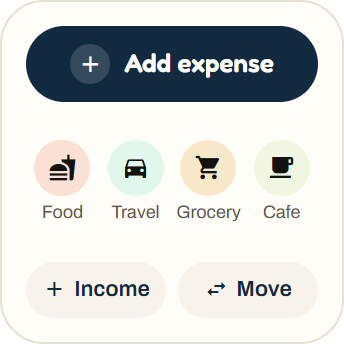
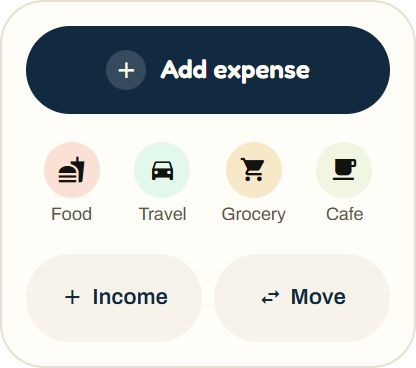
fix(widgets): give every Quick Add action a full touch target

diff --git a/src/widgets/QuickAddWidget.tsx b/src/widgets/QuickAddWidget.tsx
@@ -1,16 +1,16 @@
 import { FlexWidget, TextWidget, IconWidget, type ColorProp } from 'react-native-android-widget';
 import { WidgetShell, WidgetIcon, iconGlyph } from './WidgetShell';
-import { widgetColor, widgetAlpha, widgetInk, WIDGET_FONT } from './widgetTheme';
+import { widgetColor, widgetAlpha, widgetInk, WIDGET_FONT, QUICK_ADD_LAYOUT } from './widgetTheme';
 import type { QuickAddWidgetData } from './data';
 
 /**
- * "Quick Add" 2×2 widget: a dark theme-ink "Add expense" action, your four most-used expense categories
+ * "Quick Add" widget: a dark theme-ink "Add expense" action, your four most-used expense categories
  * (each opens Add with it picked), then Income and Move. All are deep links into `add-transaction`.
  */
 export function QuickAddWidget({ primary, categories }: QuickAddWidgetData) {
   const ink = widgetInk(primary);
   return (
-    <WidgetShell padding={12}>
+    <WidgetShell padding={QUICK_ADD_LAYOUT.padding}>
       <FlexWidget
         clickAction="OPEN_URI"
         clickActionData={{ uri: 'yume://add-transaction?type=expense' }}
@@ -19,8 +19,8 @@ export function QuickAddWidget({ primary, categories }: QuickAddWidgetData) {
           alignItems: 'center',
           justifyContent: 'center',
           width: 'match_parent',
-          height: 38,
-          borderRadius: 19,
+          height: QUICK_ADD_LAYOUT.actionHeight,
+          borderRadius: QUICK_ADD_LAYOUT.actionHeight / 2,
           backgroundColor: ink,
         }}
       >
@@ -57,7 +57,14 @@ export function QuickAddWidget({ primary, categories }: QuickAddWidgetData) {
               clickActionData={{
                 uri: `yume://add-transaction?type=expense&categoryId=${encodeURIComponent(c.id)}`,
               }}
-              style={{ flex: 1, width: 0, flexDirection: 'column', alignItems: 'center' }}
+              style={{
+                flex: 1,
+                width: 0,
+                height: QUICK_ADD_LAYOUT.categoryHeight,
+                flexDirection: 'column',
+                alignItems: 'center',
+                justifyContent: 'center',
+              }}
             >
               <WidgetIcon name={c.icon} background={widgetAlpha(c.color, 0.25)} size={28} />
               <TextWidget
@@ -120,11 +127,11 @@ function SmallAction({
       style={{
         flex: 1,
         width: 0,
-        height: 28,
+        height: QUICK_ADD_LAYOUT.actionHeight,
         flexDirection: 'row',
         alignItems: 'center',
         justifyContent: 'center',
-        borderRadius: 14,
+        borderRadius: QUICK_ADD_LAYOUT.actionHeight / 2,
         backgroundColor: background,
       }}
     >

diff --git a/src/widgets/quickAddTargets.test.tsx b/src/widgets/quickAddTargets.test.tsx
@@ -1,0 +1,50 @@
+import { act, create, type ReactTestRenderer } from 'react-test-renderer';
+import { FlexWidget } from 'react-native-android-widget';
+import app from '../../app.json';
+import { QuickAddWidget } from './QuickAddWidget';
+
+const categories = ['Food', 'Travel', 'Grocery', 'Cafe'].map((name) => ({
+  id: name === 'Cafe' ? 'cafe & tea' : name.toLowerCase(),
+  name,
+  icon: 'coffee',
+  color: '#F0876A',
+}));
+
+it('keeps all seven Quick Add links with at least 44dp bounds at its native minimum', () => {
+  let tree: ReactTestRenderer | undefined;
+  act(() => {
+    tree = create(<QuickAddWidget primary="#8FCBFF" categories={categories} />);
+  });
+  if (!tree) throw new Error('Widget did not render');
+  const containers = tree.root.findAllByType(FlexWidget);
+  const actions = containers.filter((node) => node.props.clickAction === 'OPEN_URI');
+  expect(actions.map((node) => node.props.clickActionData.uri)).toEqual([
+    'yume://add-transaction?type=expense',
+    ...categories.map(
+      (category) => `yume://add-transaction?type=expense&categoryId=${encodeURIComponent(category.id)}`
+    ),
+    'yume://add-transaction?type=income',
+    'yume://add-transaction?type=transfer',
+  ]);
+  const plugin = app.expo.plugins.find(
+    (entry) => Array.isArray(entry) && entry[0] === 'react-native-android-widget'
+  );
+  if (!Array.isArray(plugin) || typeof plugin[1] !== 'object' || !('widgets' in plugin[1])) {
+    throw new Error('Widget metadata missing');
+  }
+  const metadata = plugin[1].widgets.find((widget) => widget.name === 'QuickAdd');
+  if (!metadata) throw new Error('Quick Add metadata missing');
+  const shell = containers[0].props.style;
+  const innerWidth = parseInt(metadata.minWidth, 10) - 2 * (shell.padding + shell.borderWidth);
+  const innerHeight = parseInt(metadata.minHeight, 10) - 2 * (shell.padding + shell.borderWidth);
+  for (const action of actions) expect(action.props.style.height).toBeGreaterThanOrEqual(44);
+  expect(innerWidth / categories.length).toBeGreaterThanOrEqual(44);
+  expect((innerWidth - 6) / 2).toBeGreaterThanOrEqual(44);
+  const categoryHeight = actions[1].props.style.height;
+  expect(actions[0].props.style.height + categoryHeight + actions[5].props.style.height).toBeLessThanOrEqual(
+    innerHeight
+  );
+  expect(metadata.targetCellWidth).toBeGreaterThanOrEqual(3);
+  expect(metadata.targetCellHeight).toBeGreaterThanOrEqual(3);
+  act(() => tree?.unmount());
+});

diff --git a/src/widgets/widgetTheme.ts b/src/widgets/widgetTheme.ts
@@ -39,6 +39,15 @@ export const WIDGET_FONT = {
 /** Home's calm card corner (theme.radius.xl2). */
 export const WIDGET_RADIUS = 22;
 
+/** Space for four 44dp category targets plus shell padding/border and three action rows. */
+export const QUICK_ADD_LAYOUT = {
+  minWidth: 208,
+  minHeight: 184,
+  padding: 12,
+  actionHeight: 44,
+  categoryHeight: 48,
+} as const;
+
 /**
  * Trusts a database colour (accent, account/category colour) to already be a valid `#rrggbb` hex, as every
  * writer only stores that shape; a type-level cast, not a runtime check.

diff --git a/docs/ARCHITECTURE.md b/docs/ARCHITECTURE.md
@@ -384,4 +384,6 @@ SpendBars retains only Home's current proportional chart: daily for the running 
 
 The five widgets in [src/widgets](../src/widgets) use synchronous Android widget primitives in headless JS. Their cream surface, warm border, Fredoka headings and Archivo text/amounts follow the current app. This Month leads with the available balance (or shortfall), followed by Home's semantic spent/saved/bills/free line and compact figures. The outstanding-bills figure uses the actual query amount, not the capped line share. The line sends scaled positive integer weights because the Android renderer reads weights with getInt. The month card uses a pale solid theme wash so the native gradient implementation cannot replace its border. Hidden savings omit both the figure and its segment. Accounts uses three centred icon/name/type/balance columns, retaining per-account currency and savings masking. Quick Add uses the active theme's deep ink for its expense action and neutral Income/Move pills. Suu uses Archivo copy with a deep theme footer; Next Due retains the date tile and uses a sans-serif amount with more room for the payment name and due timing. The short Next Due privacy placeholder uses two lines so it fits its one-row height. Widget privacy gating, refresh and deep links remain owned by the existing registry/data/task modules.
 
-Launcher picker images in [assets/widget-preview](../assets/widget-preview) are generated from the actual widget components with synthetic data and bundled fonts by `npm run widgets:previews`. This local script requires Chromium (Edge/Chrome on Windows, or `WIDGET_PREVIEW_BROWSER`), renders a browser approximation of Android RemoteViews, and exports transparent PNGs at twice the logical size. `npm run widgets:previews -- --minimum` also exports minimum-size QA images under design-preview/widget-minimum. It does not replace native rendering acceptance. Widget minimum dimensions in app.json leave room for the compact layouts. A new native build is required to ship picker images and widget metadata; launcher preview caching and resized/large-text layouts must still be checked on a phone.
+Quick Add retains all seven expense/category/income/transfer actions in a larger minimum 208×184dp widget, with a 3×3 placement hint (actual launcher cells vary). Main/secondary actions are 44dp high and category containers 48dp, leaving at least 45.5dp per category after shell padding/border. Shared headless layout tokens drive its renderer and preview dimensions; a regression checks all seven encoded deep links and target sizes against native metadata. See [F05 validation](F05_QUICK_ADD_TARGETS_2026_10_23.md).
+
+Launcher picker images in [assets/widget-preview](../assets/widget-preview) are generated from the actual widget components with synthetic data and bundled fonts by `npm run widgets:previews`. This local script requires Chromium (Edge/Chrome on Windows, or `WIDGET_PREVIEW_BROWSER`), renders a browser approximation of Android RemoteViews, and exports transparent PNGs at twice the logical size. `npm run widgets:previews -- --minimum` also exports minimum-size QA images under design-preview/widget-minimum. It does not replace native rendering acceptance. Widget minimum dimensions in app.json leave room for their layouts. A new native build is required to ship picker images and widget metadata; launcher preview caching and resized/large-text layouts must still be checked on a phone.

diff --git a/docs/F05_QUICK_ADD_TARGETS_2026_10_23.md b/docs/F05_QUICK_ADD_TARGETS_2026_10_23.md
@@ -1,0 +1,25 @@
+# F05 — retain every Quick Add action with larger targets
+
+## Decision / root cause
+
+The user approved retaining all actions and increasing the minimum widget footprint. Previously the main action was 38dp high, Income/Move 28dp, and four category shortcuts shared the space inside a 140dp-wide widget. Height changes alone would leave category widths below 44dp.
+
+[QuickAddWidget](../src/widgets/QuickAddWidget.tsx) now uses shared [layout tokens](../src/widgets/widgetTheme.ts): main/secondary actions are 44dp high; category containers are 48dp high. [Native metadata](../app.json:90) requires 208×184dp and advertises a 3×3 placement hint. The precise cell footprint depends on the launcher. With 12dp padding and a 1dp shell border, the four category columns have at least 45.5dp each; secondary actions have at least 88dp each. The three rows consume 136dp of 158dp inner height, leaving 22dp for their two flexible gaps.
+
+All seven expense/category/income/transfer deep links remain, including encoded category IDs. The native metadata and regenerated [picker image](../assets/widget-preview/quick-add.png) ship together in a new Android build. Existing widgets and launcher caches need upgrade/resize acceptance; JS refresh alone does not distribute new provider dimensions or picker assets.
+
+## Files / validation
+
+- QuickAddWidget, widgetTheme, app.json, quickAddTargets.test.tsx.
+- The [preview generator](../scripts/generateWidgetPreviews.cjs) uses the same minimum tokens for Quick Add's picker and minimum-size QA rendering. Its overview canvas grows so the enlarged card does not overlap the neighboring preview.
+- The Quick Add PNG is 416×368 at twice logical size; the other four generated picker images are byte-unchanged.
+
+The new regression failed before correction: expected action height ≥44, received 38. It verifies seven exact URIs, category ID encoding, all action heights, available category/secondary widths and all row heights against the native minimum including padding/border. The focused new/existing widget run passes **2 suites / 9 tests**.
+
+Both regular and minimum-size preview generation passed. Visual inspection of the regenerated Quick Add confirmed all actions fit with distinct rows and readable labels. This is a browser approximation, not native RemoteViews/TalkBack acceptance. Type-check, whole-repository lint, formatting and cycle checks pass. Fresh full regression: **332 suites / 11,435 tests pass; 2 suites/tests skipped**, 396.8 seconds. Those performance suites are run separately in final verification.
+
+## Risk / acceptance / rollback
+
+The approved larger minimum occupies more launcher space. No data model, category ranking, privacy or link behavior changes. No dependency addition. Revert this finding's commit to restore the previous provider dimensions, renderer and PNG together; no migration.
+
+On Android, install the rebuilt candidate, add a new Quick Add, resize to minimum and larger bounds, tap all seven actions (also while app-locked), and verify TalkBack labels/bounds. Check a four-column and five-column launcher, existing-widget upgrade/reboot, long category labels, empty categories, enlarged OS text and configured-light appearance under OS dark mode. iOS is outside scope. No startup/frame-rate improvement is claimed.
